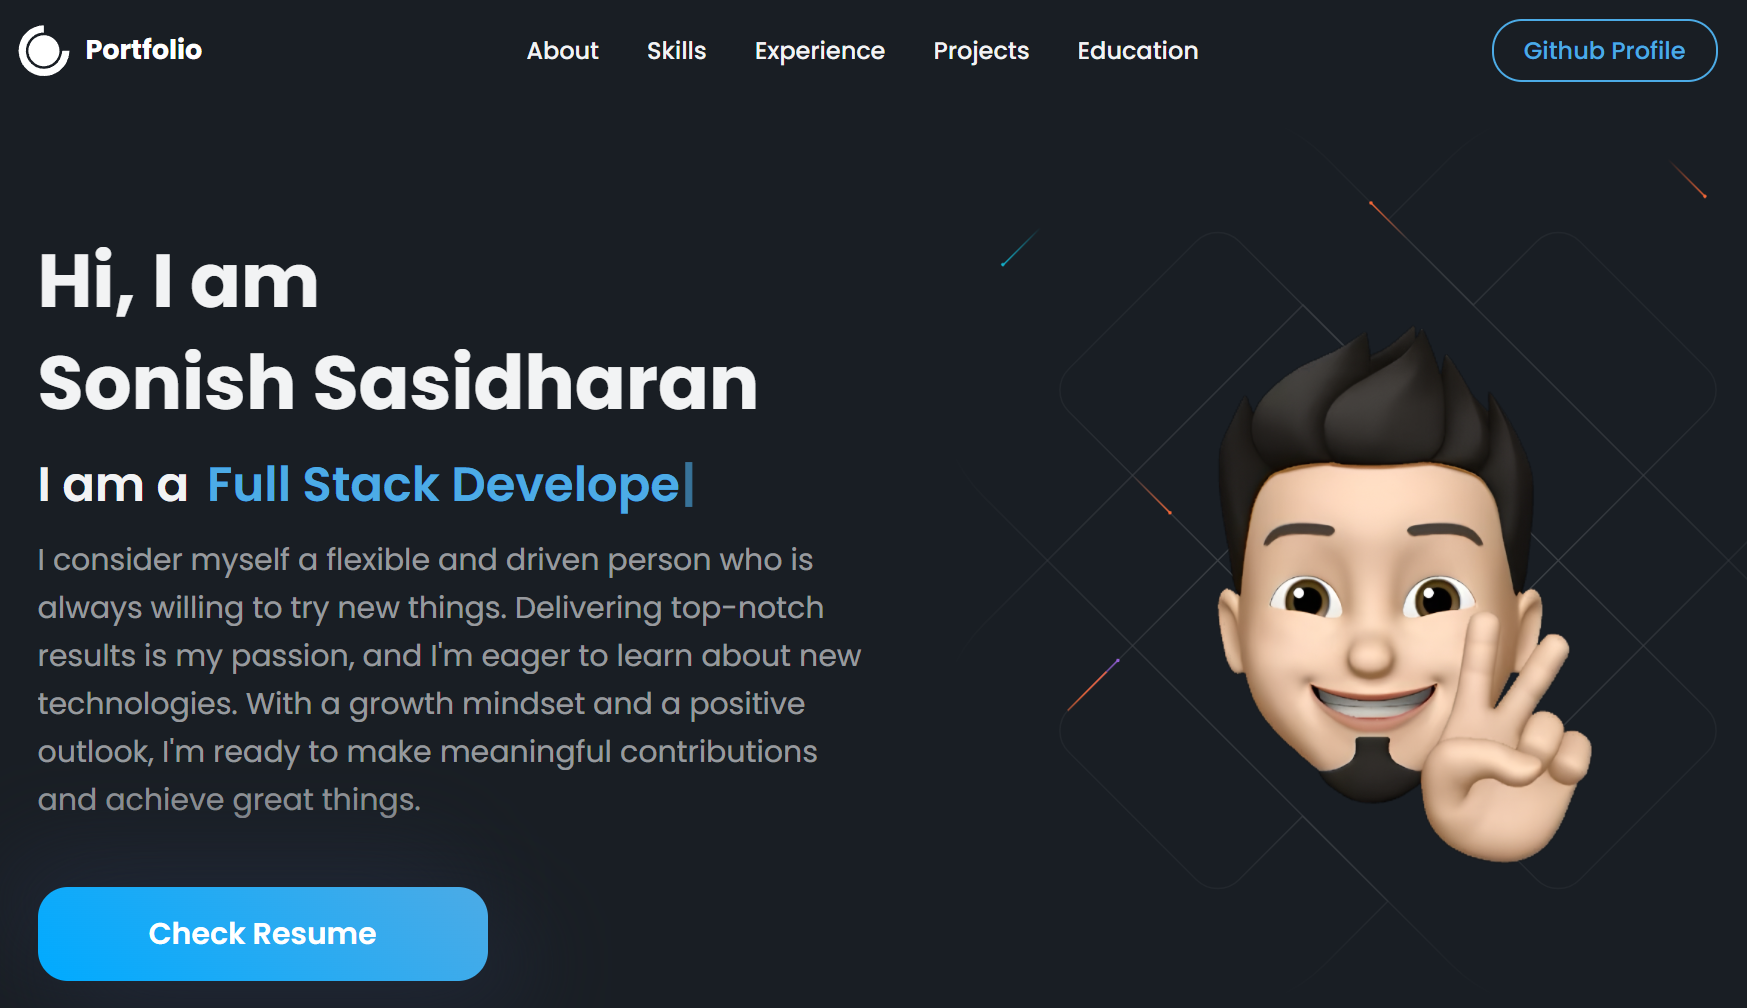
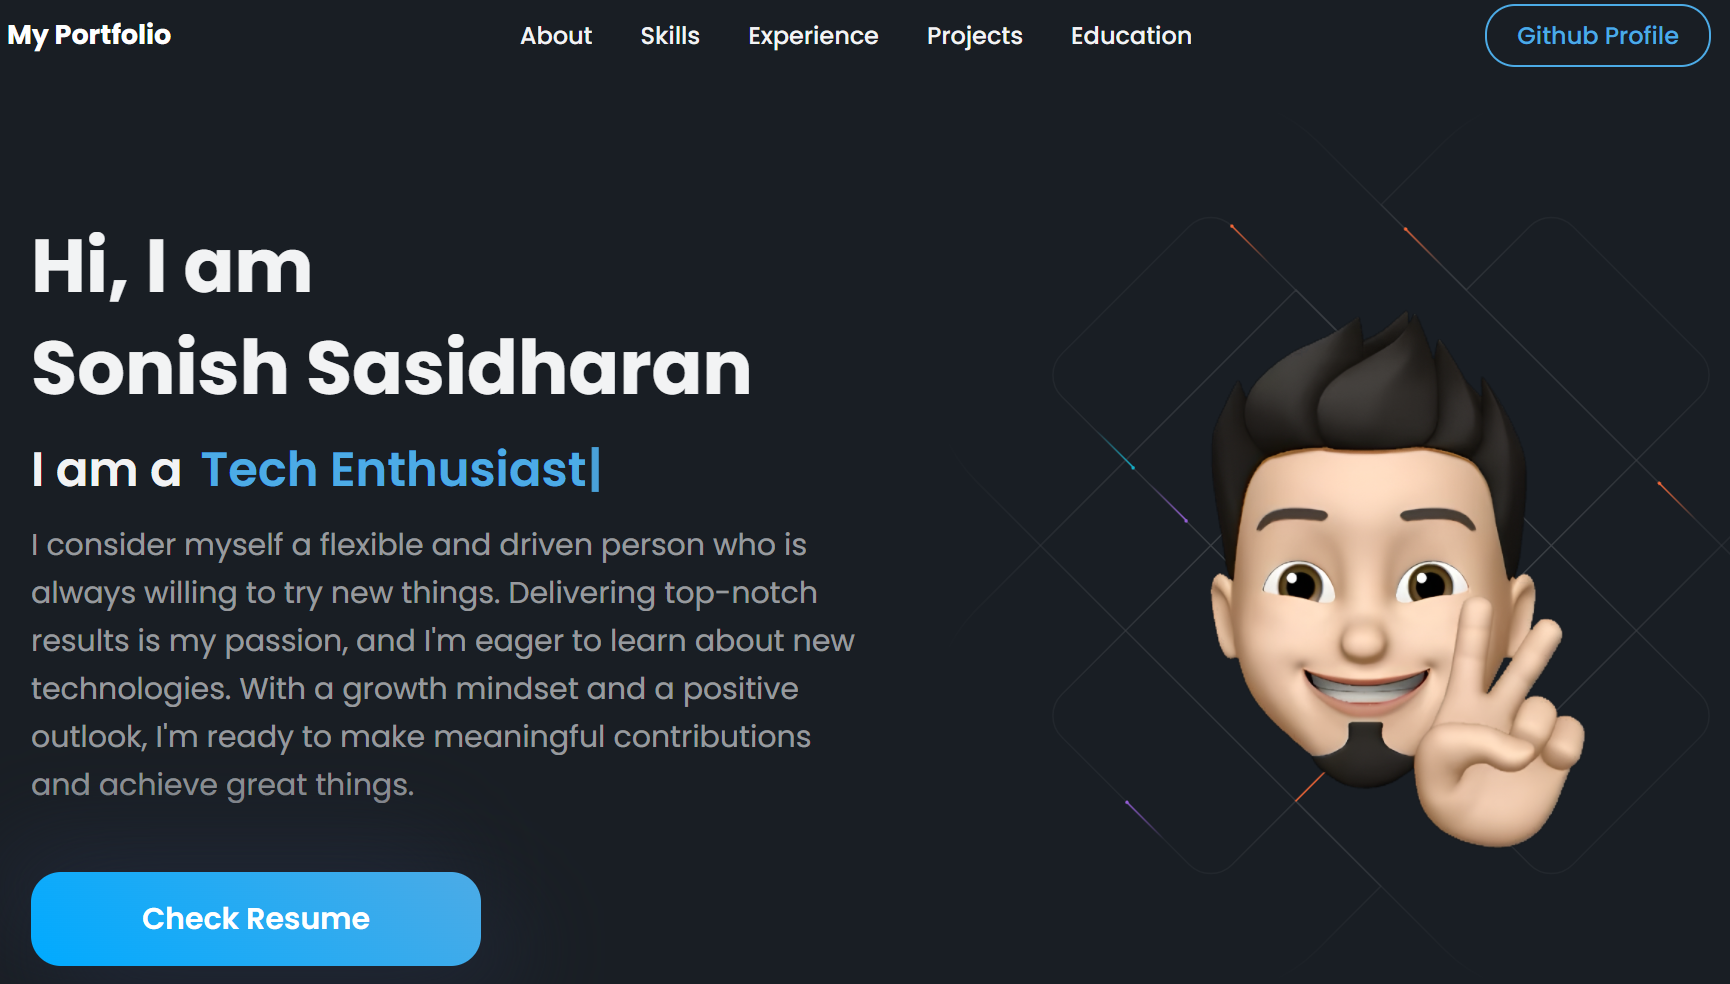
change 1

diff --git a/src/data/constants.js b/src/data/constants.js
@@ -1,6 +1,6 @@
 export const Bio = {
   name: "Sonish Sasidharan",
-  roles: ["Full Stack Developer", "Programmer", "Tech Enthusiast", "Blogger"],
+  roles: ["Full-Stack Developer", "Programmer", "Tech Enthusiast", "Blogger"],
   description:
     "I consider myself a flexible and driven person who is always willing to try new things. Delivering top-notch results is my passion, and I'm eager to learn about new technologies. With a growth mindset and a positive outlook, I'm ready to make meaningful contributions and achieve great things.",
   github: "https://github.com/sonishstark",
@@ -168,7 +168,7 @@ export const experiences = [
     role: "Associate Software Engineer",
     company: "Accenture",
     date: "Feb 2022- June 2023",
-    desc: "As a full stack developer, I worked with multiple frameworks and integrated React and Python scripts to create an e-commerce website for the clients. worked with AWS to manage a website and deploy billing UI for services in accordance with client specifications.",
+    desc: "As a full-stack developer, I worked with multiple frameworks and integrated React and Python scripts to create an e-commerce website for the clients. worked with AWS to manage a website and deploy billing UI for services in accordance with client specifications.",
     skills: [
       "Python",
       "React",
@@ -186,16 +186,16 @@ export const experiences = [
     role: "Stream Training",
     company: "Accenture",
     date: "Sept 2021 - Feb 2022",
-    desc: "I developed a user-specific pizza ordering website using Angular, incorporating customization features. Collaborated with teams using Git for version control. The traning overall enhanced my knowledge on the listed skillset below. ",
+    desc: "I developed a user-specific pizza ordering website using Angular, incorporating customization features. Collaborated with teams using Git for version control. The training overall enhanced my knowledge on the listed skillset below. ",
     skills: [
-      "AngularJS",
-      "NodeJs",
+      "Angular JS",
+      "Node Js",
       "HTML",
       "CSS",
       "JavaScript",
       "SQL",
       "MongoDB",
-      "PostmanAPI",
+      "Postman API",
     ],
   },
 ];
@@ -338,7 +338,8 @@ export const projects = [
       "https://github.com/sonishstark/Portfolio-website/blob/main/public/hand_sign.jpg?raw=true",
     tags: ["Python", "TensorFLow", "Neural Network", "Keras"],
     category: "others",
-    github: "https://github.com/sonishstark/Object_Detection/blob/main/AI_Certificate.pdf",
+    github:
+      "https://github.com/sonishstark/Object_Detection/blob/main/AI_Certificate.pdf",
     member: [
       {
         name: "Sonish Sasidharan",
@@ -358,7 +359,8 @@ export const projects = [
       "https://github.com/sonishstark/Portfolio-website/blob/main/public/Arduino.png?raw=true",
     tags: ["Arduino", "Ultrasonic Sensor", "C/C++", "HC-SR04"],
     category: "others",
-    github: "https://github.com/sonishstark/Object_Detection/blob/main/UltraSonic_certificate.pdf",
+    github:
+      "https://github.com/sonishstark/Object_Detection/blob/main/UltraSonic_certificate.pdf",
     member: [
       {
         name: "Sonish Sasidharan",

diff --git a/src/components/Projects/index.js b/src/components/Projects/index.js
@@ -20,7 +20,8 @@ const Projects = ({ openModal, setOpenModal }) => {
       <Wrapper>
         <Title>Projects</Title>
         <Desc>
-           My portfolio of projects is extensive. These projects range from web applications to little projects that I've worked on.
+          My portfolio of projects is extensive. These projects range from web
+          applications to ML, AI, and IOT which I've worked on.
         </Desc>
         <ToggleButtonGroup>
           {toggle === "all" ? (
